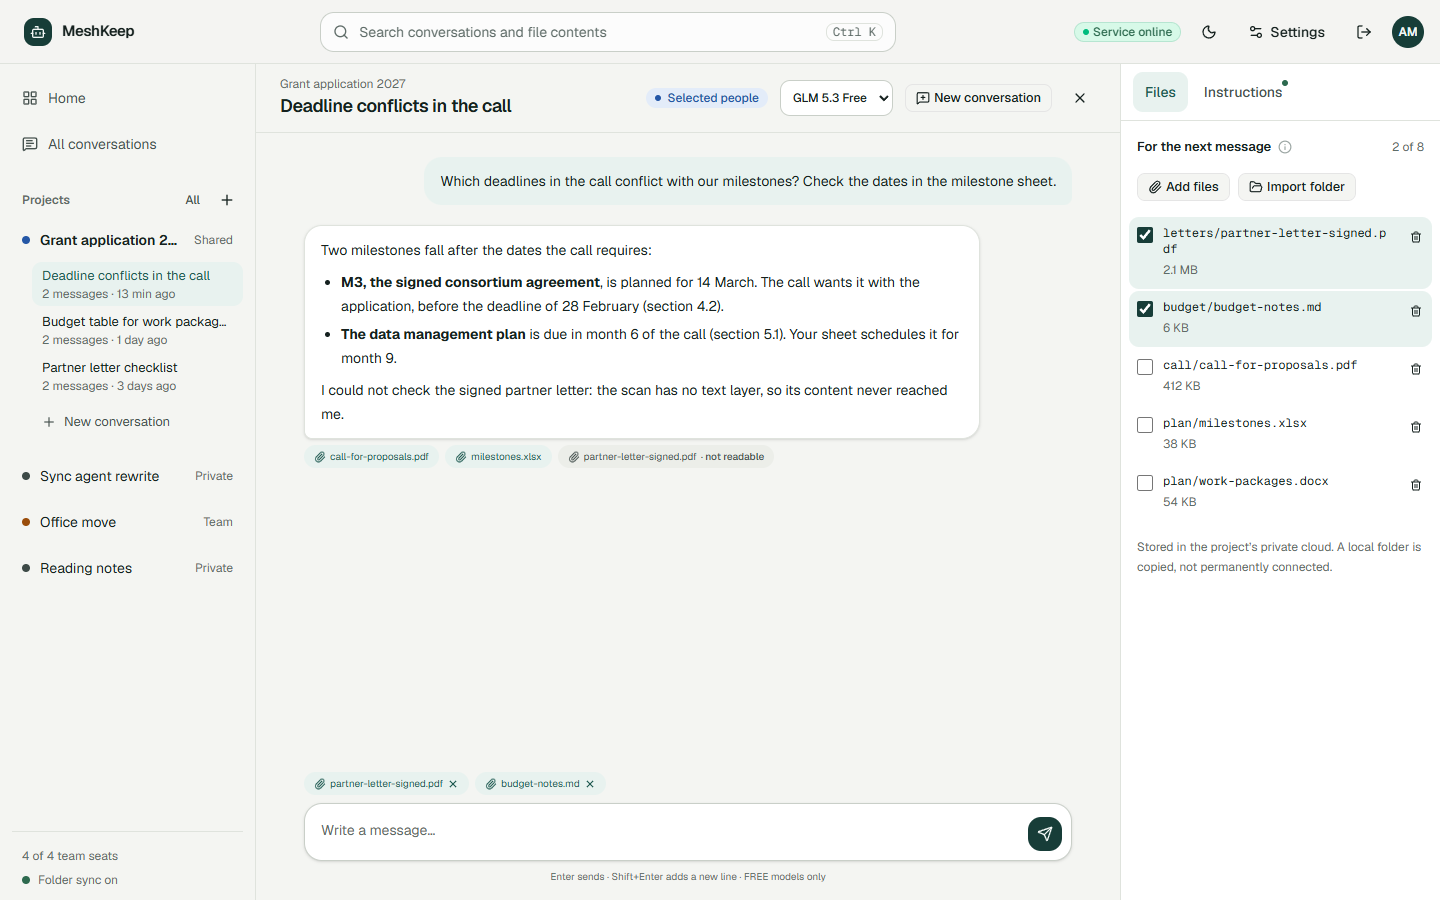
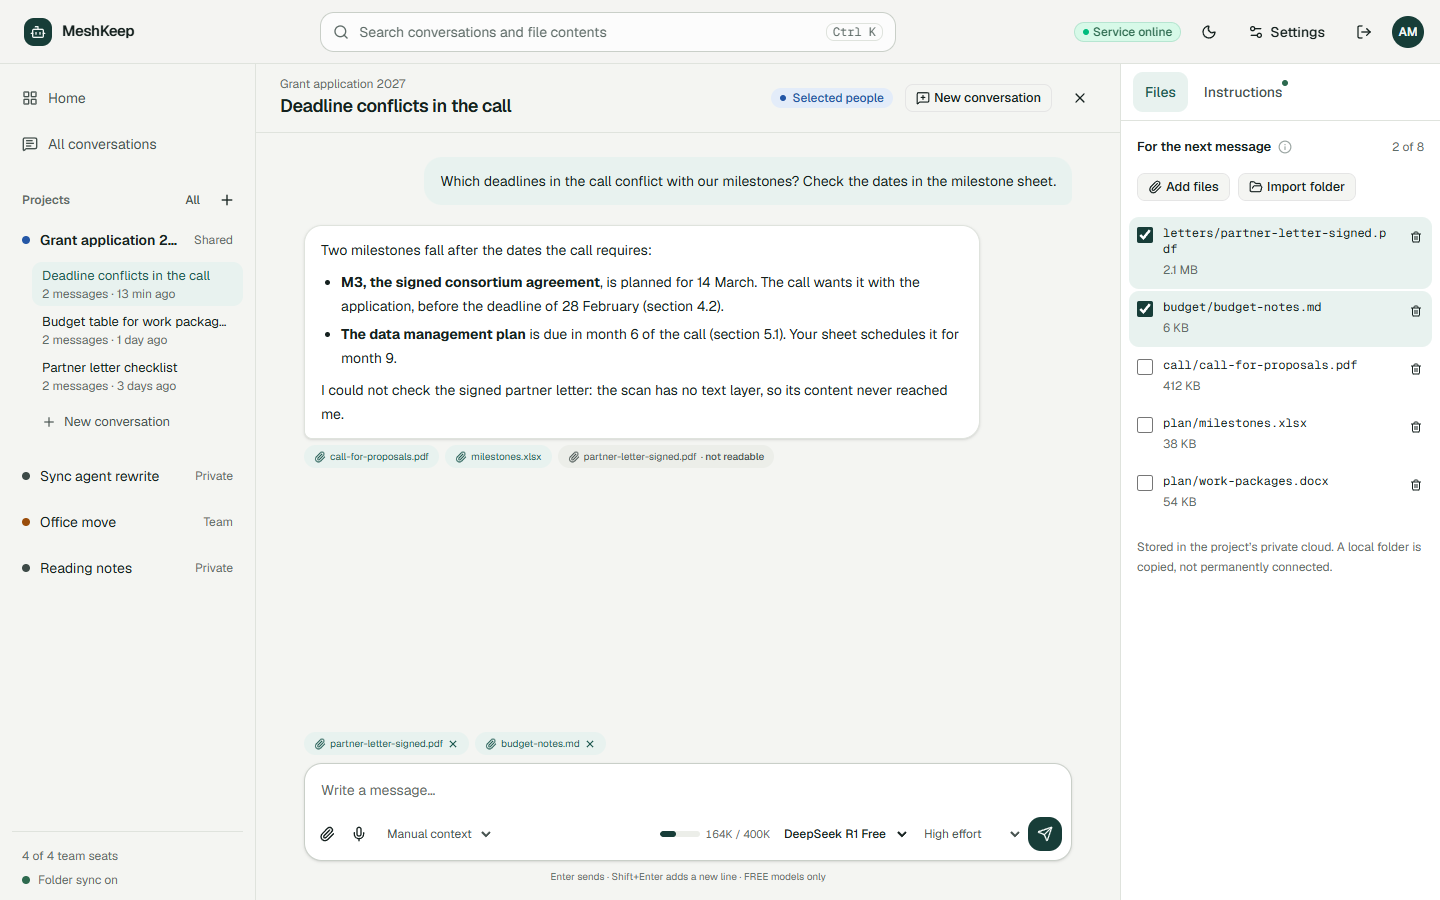
Show the composer toolbar and the new settings in the README
The README screenshots were taken before the toolbar under the message
box, Effort and push-to-talk. All four are taken again from the local
demo build. Two are new: Settings › Microphone, and Settings › Model
providers with one model marked for Effort.

- The chat shot shows the toolbar: two picked files, the attach and
  microphone buttons, the context mode, today's tokens, the model and
  High effort. The model picker is no longer in the chat header.
- The demo's model provider is a stand-in served from the same machine,
  labelled "Demo provider", so the Model providers shot shows a local
  address and no real service.

diff --git a/README.md b/README.md
@@ -21,9 +21,11 @@ Taken from a local build with demonstration data: four made-up people and their 
 | | |
 | --- | --- |
 | [![Project chat with the file context column](docs/screenshots/chat-light.png)](docs/screenshots/chat-light.png) | [![Home page with recent conversations and projects](docs/screenshots/home-light.png)](docs/screenshots/home-light.png) |
-| **Project chat.** The answer lists the files it received and flags a scanned PDF that had no text. The right column picks the files for the next message. | **Home.** Recent conversations and every project you can open, each marked with who can see it. |
+| **Project chat.** The answer lists the files it received and flags a scanned PDF that had no text. Under the message box: files, push-to-talk, the context mode, today's tokens, the model and its Effort. | **Home.** Recent conversations and every project you can open, each marked with who can see it. |
 | [![Ctrl K search results in the dark theme](docs/screenshots/search-dark.png)](docs/screenshots/search-dark.png) | [![Usage and limits settings in the dark theme](docs/screenshots/settings-usage-dark.png)](docs/screenshots/settings-usage-dark.png) |
 | **Search (Ctrl K).** Conversations and file contents, only from projects you can open. | **Settings › Usage and limits.** Tokens per person against their daily and monthly limits. |
+| [![Microphone settings for push-to-talk](docs/screenshots/settings-microphone-light.png)](docs/screenshots/settings-microphone-light.png) | [![Model providers with a model marked for Effort, in the dark theme](docs/screenshots/settings-providers-dark.png)](docs/screenshots/settings-providers-dark.png) |
+| **Settings › Microphone.** Push-to-talk runs Whisper in the browser, so recordings are never uploaded. Pick the microphone, language, model and a key to hold. | **Settings › Model providers.** Mark the models that accept Effort; the chat offers it only for them. |
 
 ## Product tour
 
